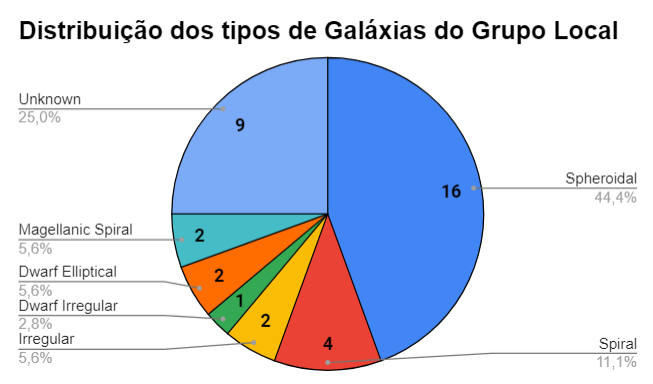
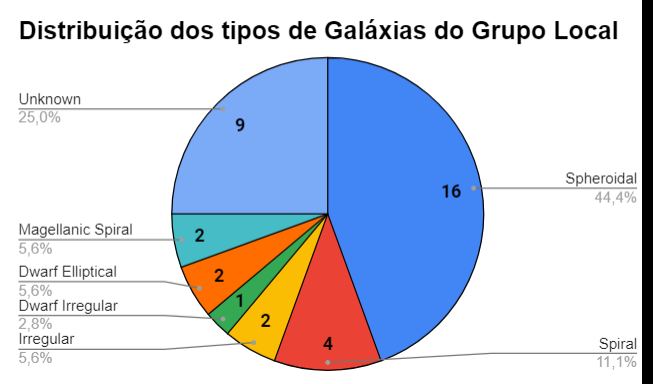
ALTERATION

Changed region(s): [[0.9801, 0.0, 1.0, 1.0]]

diff --git a/data.html b/data.html
@@ -98,7 +98,7 @@
                             <div class="card-2">
                                 <div class="card-2-img">
                                     <img
-                                        src="./assets/images/galaxy-3.jpg"
+                                        src="./assets/images/dataset3sheets.PNG"
                                         alt="Galaxy"
                                     />
                                 </div>
